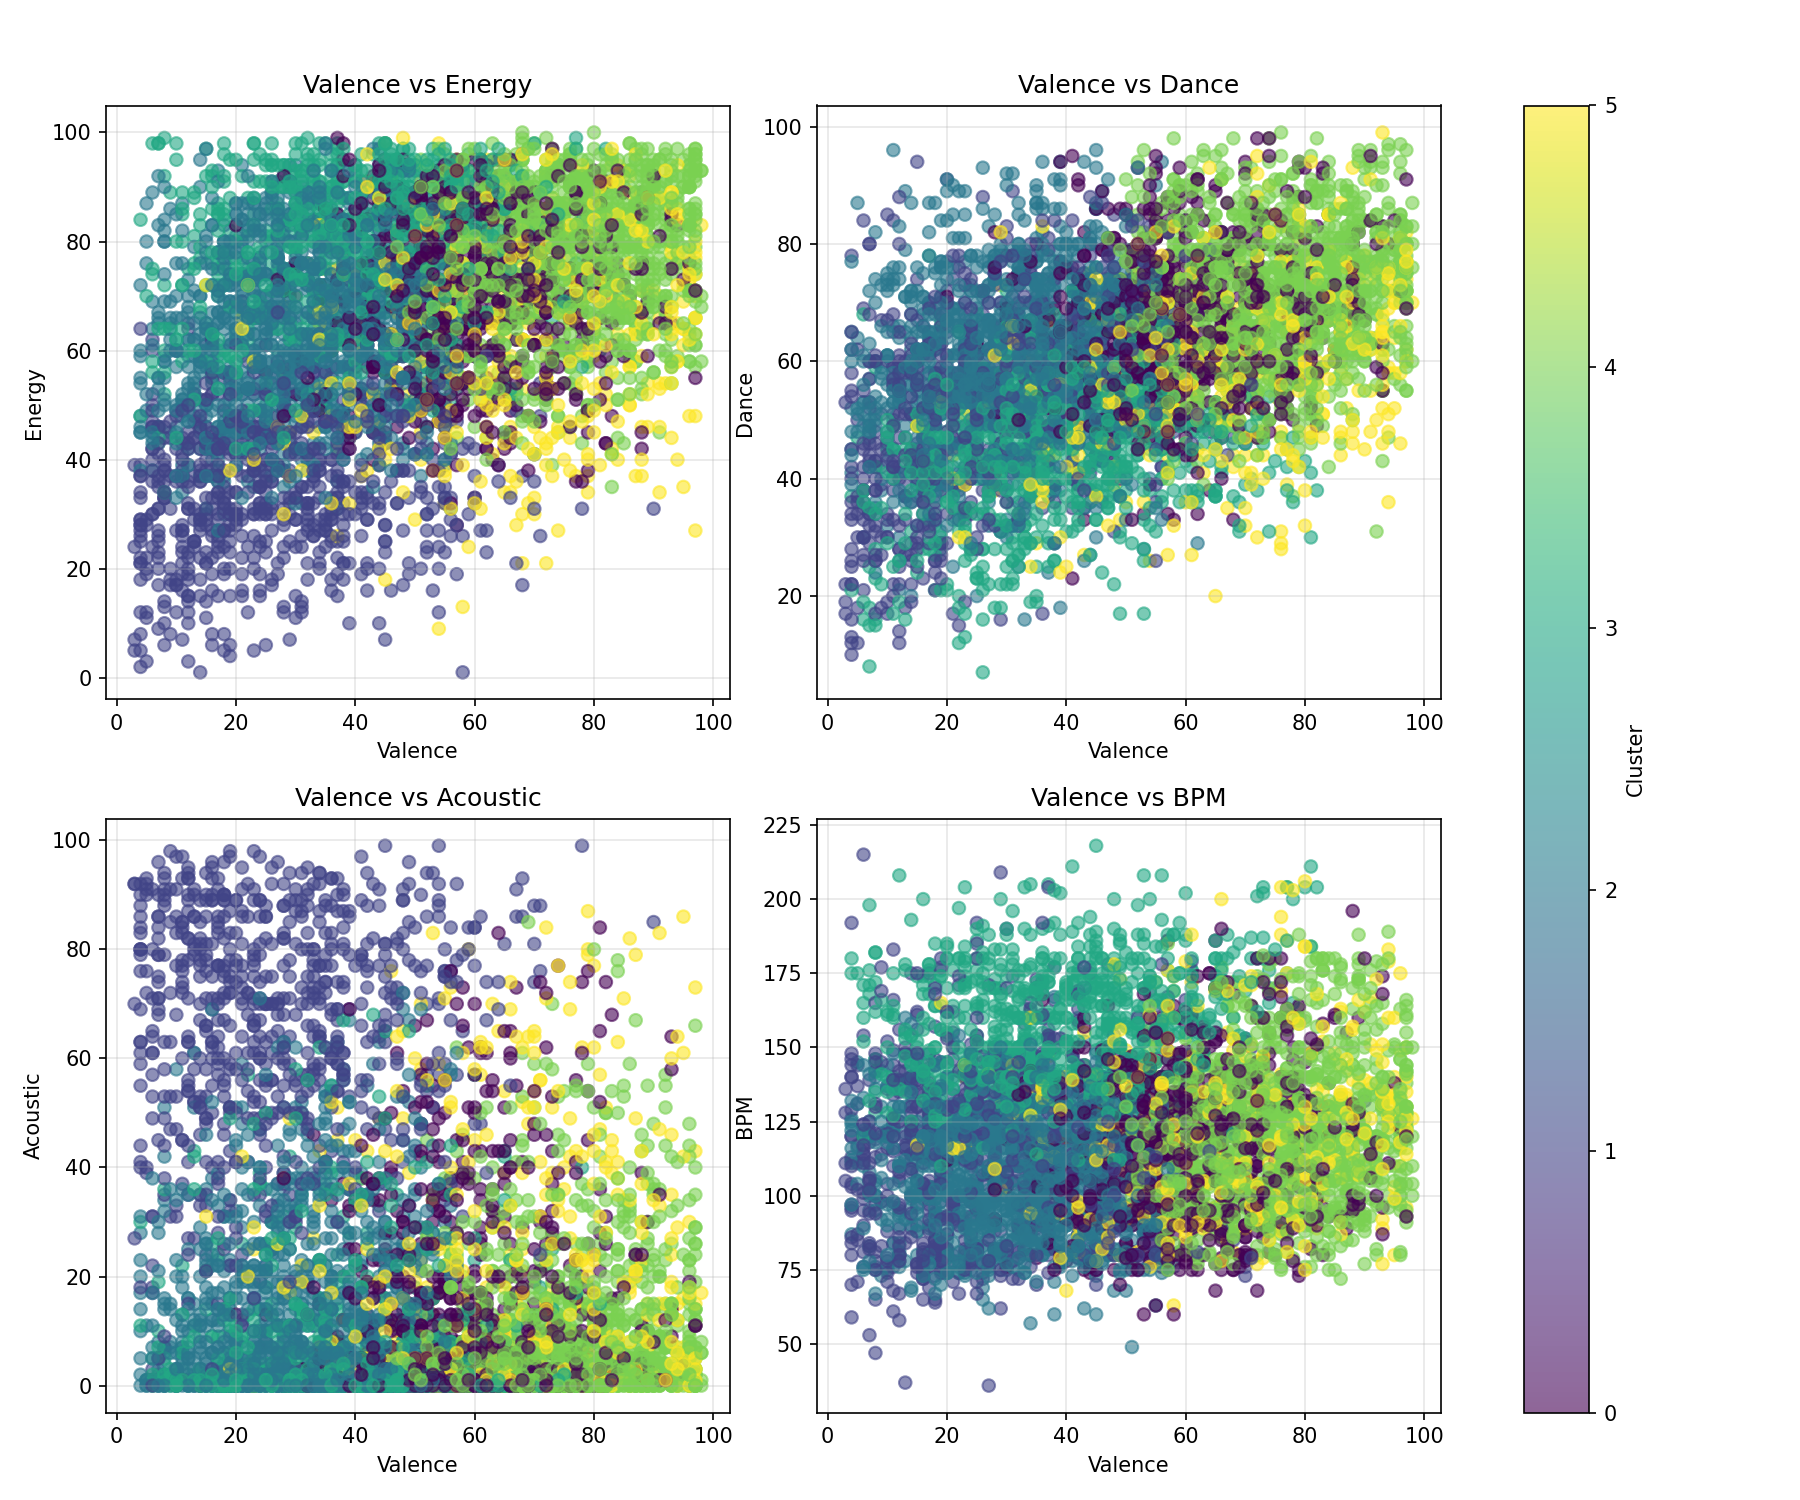
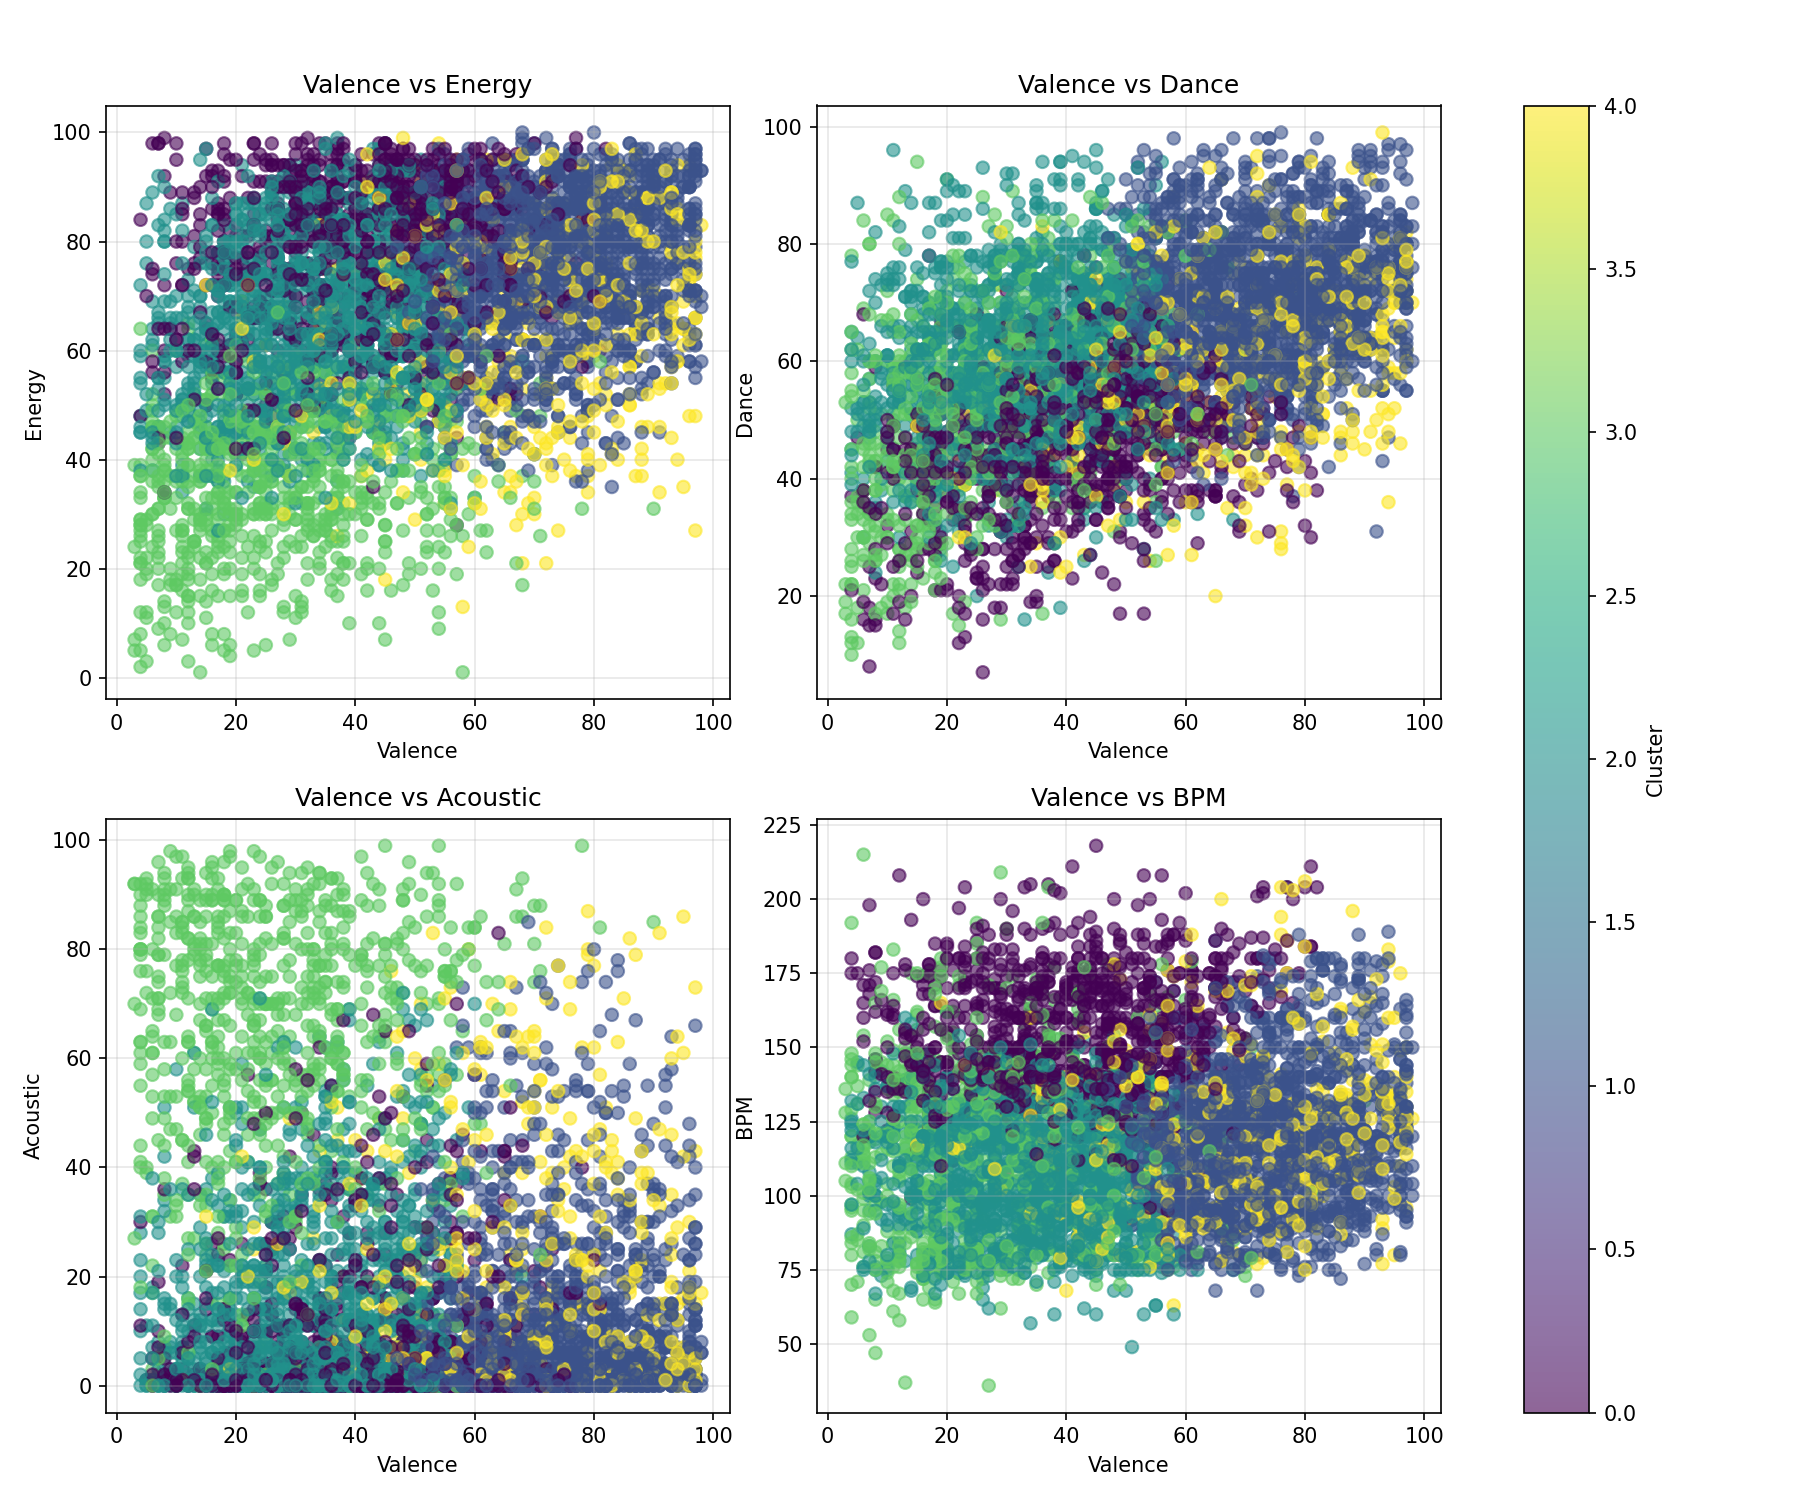
Commit changes to cluster analysis

diff --git a/src/analysis/feature_analysis.py b/src/analysis/feature_analysis.py
@@ -137,7 +137,7 @@ print("Features standardized using StandardScaler")
 print("Valence weighted 1.5x to prioritize mood separation")
 
 # Run k-means clustering with different cluster numbers and evaluate using elbow method
-n_clusters_range = range(4, 11)
+n_clusters_range = range(3, 11)
 inertias = []
 
 for n_clusters in n_clusters_range:

diff --git a/README.md b/README.md
@@ -220,7 +220,7 @@ The script performs K-means clustering on audio features with the following appr
 - **Valence Weighting**: Valence (mood) is weighted 1.5x before clustering to prioritize mood separation. This prevents mixing sad songs with happy songs within the same cluster, which would kill the mood in playlists.
 - **Feature Standardization**: All features are standardized using StandardScaler to ensure equal contribution to the distance metric.
 - **Elbow Method**: The optimal number of clusters is determined using the elbow method, which plots inertia (within-cluster sum of squares) against the number of clusters. The elbow point is detected by finding the point with maximum distance from the line connecting the first and last points on the curve.
-- **Cluster Range**: The algorithm tests cluster counts from 4 to 10, with a minimum of 4 clusters to ensure sufficient granularity for mood-based grouping.
+- **Cluster Selection**: The algorithm tests cluster counts from 3 to 10. The elbow method detected 5 clusters as the optimal number.
 - **Visualization**: Clusters are visualized using feature pairs (Valence vs Energy, Valence vs Dance, Valence vs Acoustic, Valence vs BPM) to show how songs group by mood and other characteristics.
 
 **Output:**
